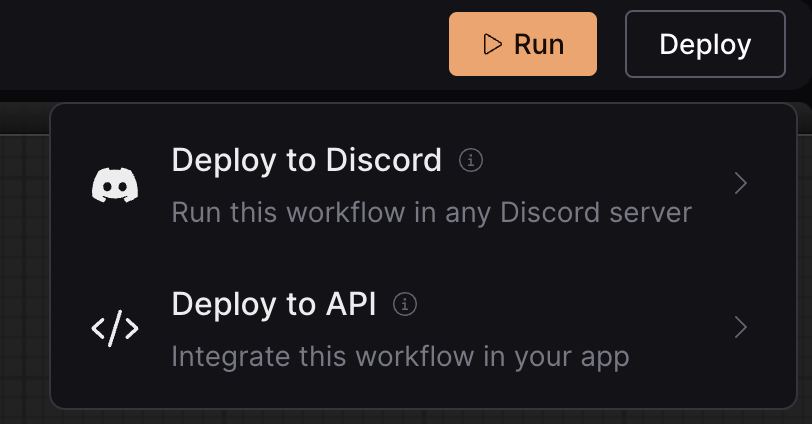
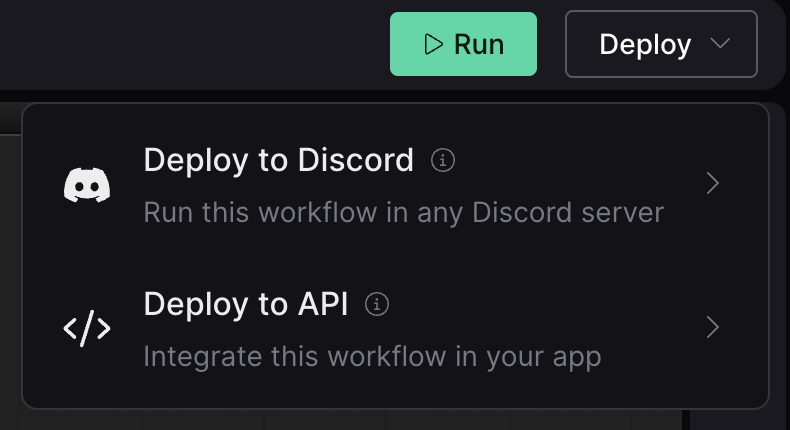
updated images to reflect new button design

diff --git a/docs/deploy-to-api.md b/docs/deploy-to-api.md
@@ -17,7 +17,7 @@
 ![deployments1](images/deployments1.png)
 
 <aside>
-ℹ The workflow will be deployed in the state of its last successful run, and needs to have at least 1 successful run to be deployed.
+ℹ The most recent job execution must be successful in order to proceed with deployment.
 </aside>
 
 ## Sending inputs
